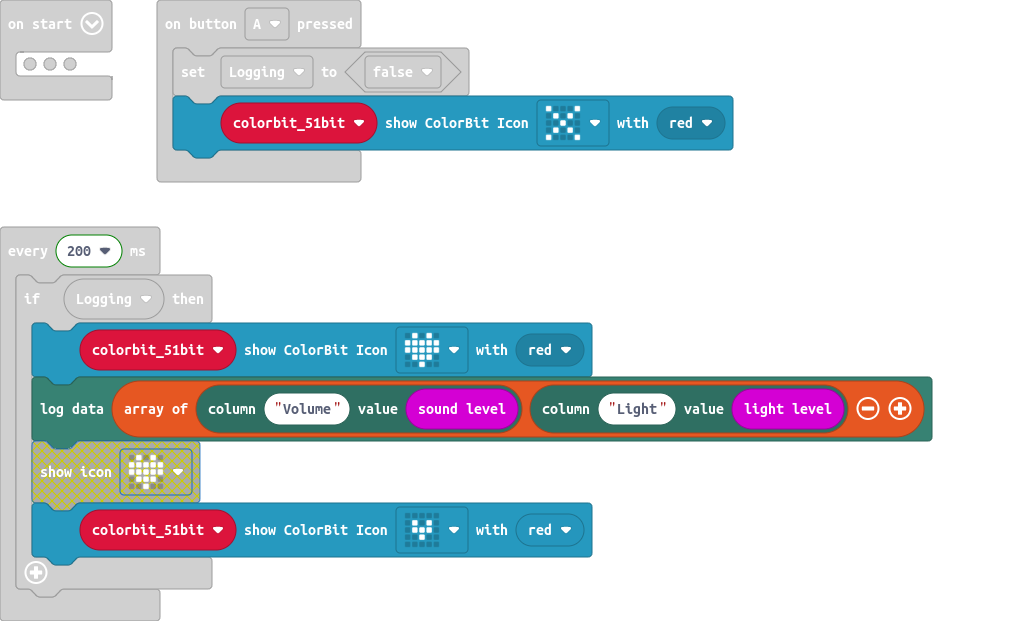
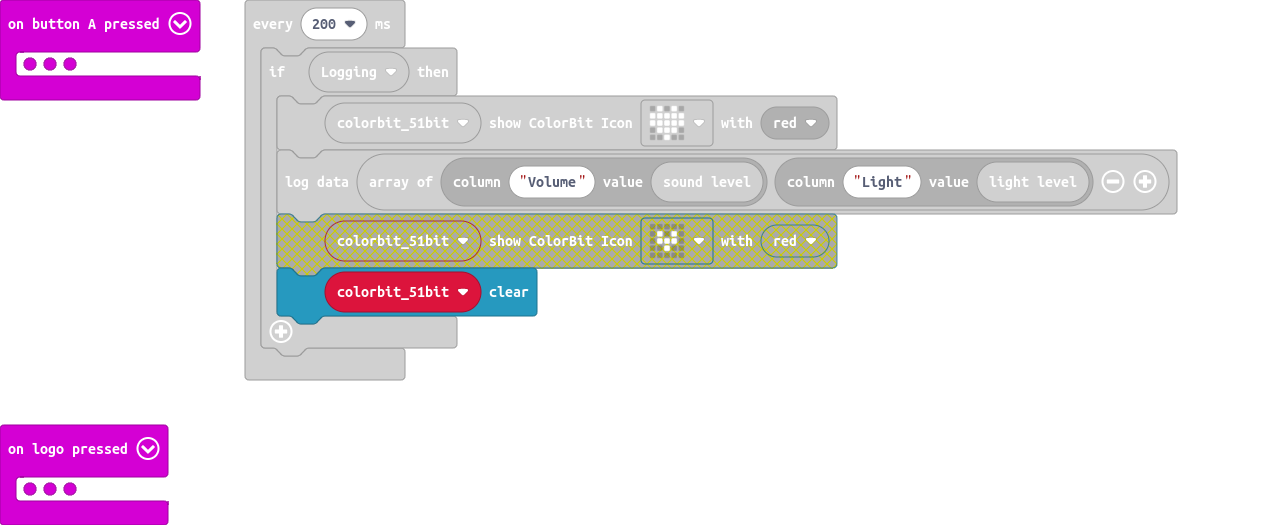
change heart animation

diff --git a/main.ts b/main.ts
@@ -17,6 +17,6 @@ loops.everyInterval(200, function () {
     if (Logging) {
         colorbit_51bit.showColorIcon(ColorIcon.Heart, colorbit.colors(BitColors.Red))
         datalogger.logData([datalogger.createCV("Volume", input.soundLevel()), datalogger.createCV("Light", input.lightLevel())])
-        colorbit_51bit.showColorIcon(ColorIcon.SmallHeart, colorbit.colors(BitColors.Red))
+        colorbit_51bit.clear()
     }
 })
